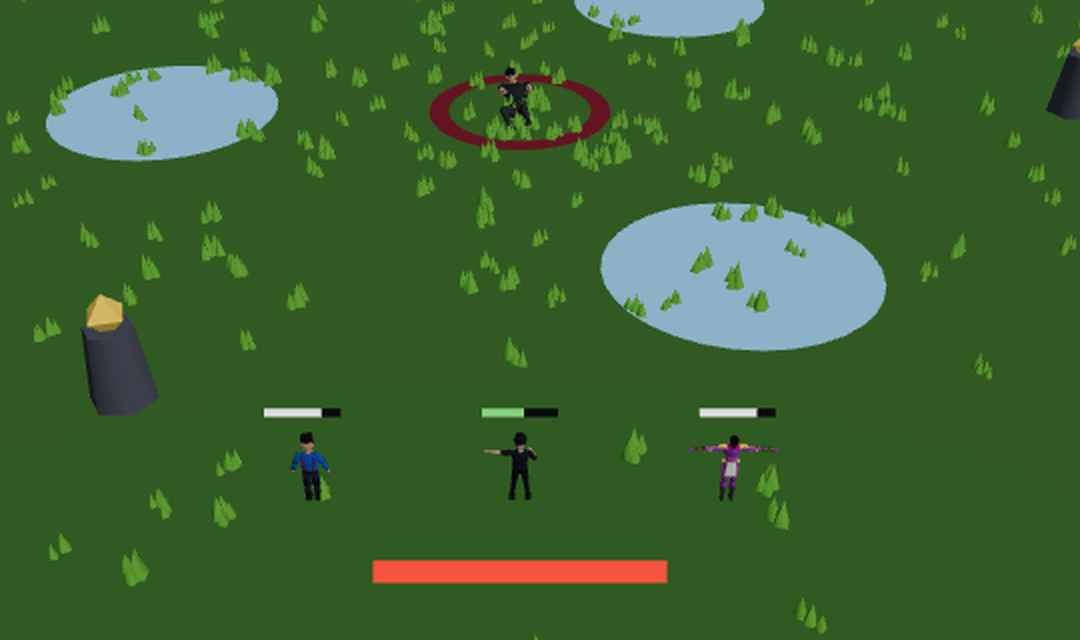
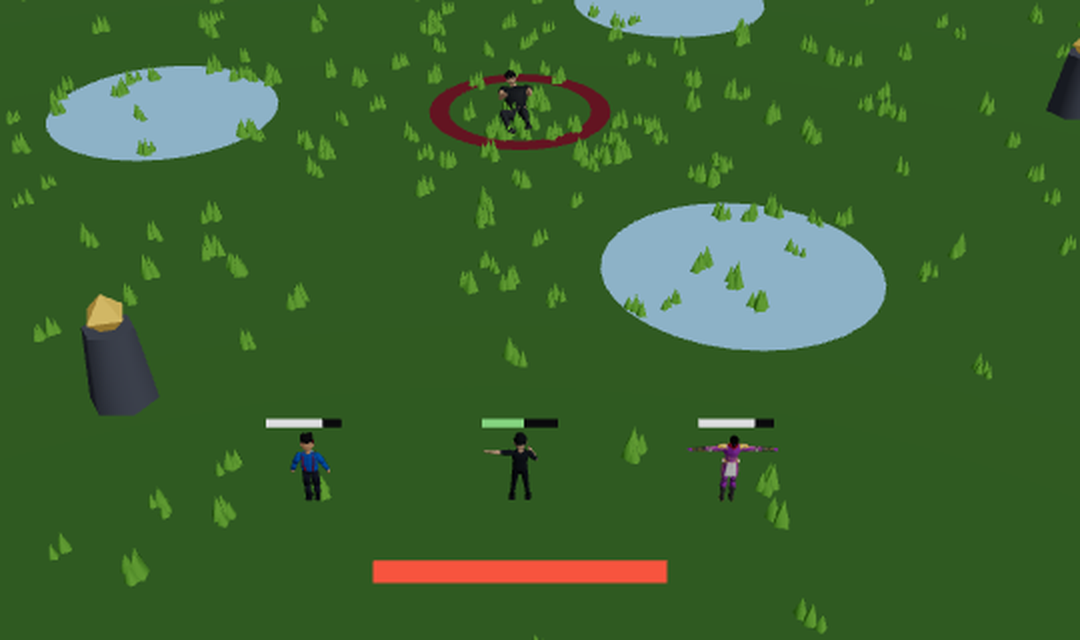
fix: HPバーの高さをキャラの表示高さから決める
バーの高さが 2.1 固定で、capsule の仮表示 (高さ約1.4) の頃の値のまま
だった。GLB差し替えでキャラの表示高さが 1.6 になり、バーが頭上から
離れて浮いて見えていた。斜めから見ると別のキャラの上や地面の上に
乗っているように見え、位置がずれているように読める。

CHARACTER_DISPLAY_HEIGHT から決めて、モデルを差し替えても頭上に
追従するようにする。

モデルとキャラの位置そのものはずれていない。3体とも world 座標で
論理位置と一致していることを確認済み (GLBのノードにも平行移動なし)。

Claude-Session: https://claude.ai/code/session_01L7Q83E6aC5U2L6rbnVHdDa

diff --git a/src/rendering/boss/BossArenaScene.tsx b/src/rendering/boss/BossArenaScene.tsx
@@ -20,6 +20,7 @@ import { attachKeyboardGameActions } from '@/input/keyboard/game-action-adapter'
 
 import { FollowCamera } from '../camera/FollowCamera';
 import { CharacterModel } from '../character/CharacterModel';
+import { CHARACTER_DISPLAY_HEIGHT } from '../character/character-models';
 import { HoriDaisukeModel } from '../character/HoriDaisukeModel';
 import { World } from '../world/World';
 import { DangerZoneMarks } from './DangerZoneMarks';
@@ -352,6 +353,18 @@ const BAR_WIDTH = 1.4;
 const BAR_HEIGHT = 0.16;
 
 /**
+ * 立っているときのバーの高さ。頭のすぐ上へ置く。
+ *
+ * キャラの表示高さ (CHARACTER_DISPLAY_HEIGHT) から決める。ここを固定値に
+ * すると、モデルを差し替えて背の高さが変わったときにバーだけ頭上から離れ、
+ * 別のキャラの上に浮いているように見える。
+ */
+const BAR_OVERHEAD_HEIGHT = CHARACTER_DISPLAY_HEIGHT + 0.25;
+
+/** 倒れているときのバーの高さ。寝ている体の上に置く。 */
+const BAR_DOWNED_HEIGHT = 0.6;
+
+/**
  * 頭上のHPバー。倒れている間は蘇生ゲージに切り替わる。
  *
  * HUD は別Issueだが、これが無いと倒れた仲間が「連打1回目」なのか
@@ -369,9 +382,10 @@ function StatusBar({
   const ratio = reviving ? reviveRatio(player) : player.hp / player.hpMax;
   const color = reviving ? '#ffd60a' : local ? '#4cd964' : '#f2f2f7';
 
-  // 親の group が位置を持つので、バーは相対位置で置く。
+  // 親の group が位置を持つので、バーは相対位置で置く。高さはキャラの表示高さ
+  // から決める。固定値にすると、モデルの高さを変えたときに頭上から離れる。
   return (
-    <Billboard position={[0, reviving ? 1 : 2.1, 0]}>
+    <Billboard position={[0, reviving ? BAR_DOWNED_HEIGHT : BAR_OVERHEAD_HEIGHT, 0]}>
       <mesh>
         <planeGeometry args={[BAR_WIDTH, BAR_HEIGHT]} />
         <meshBasicMaterial color="#1c1c1e" depthWrite={false} />
